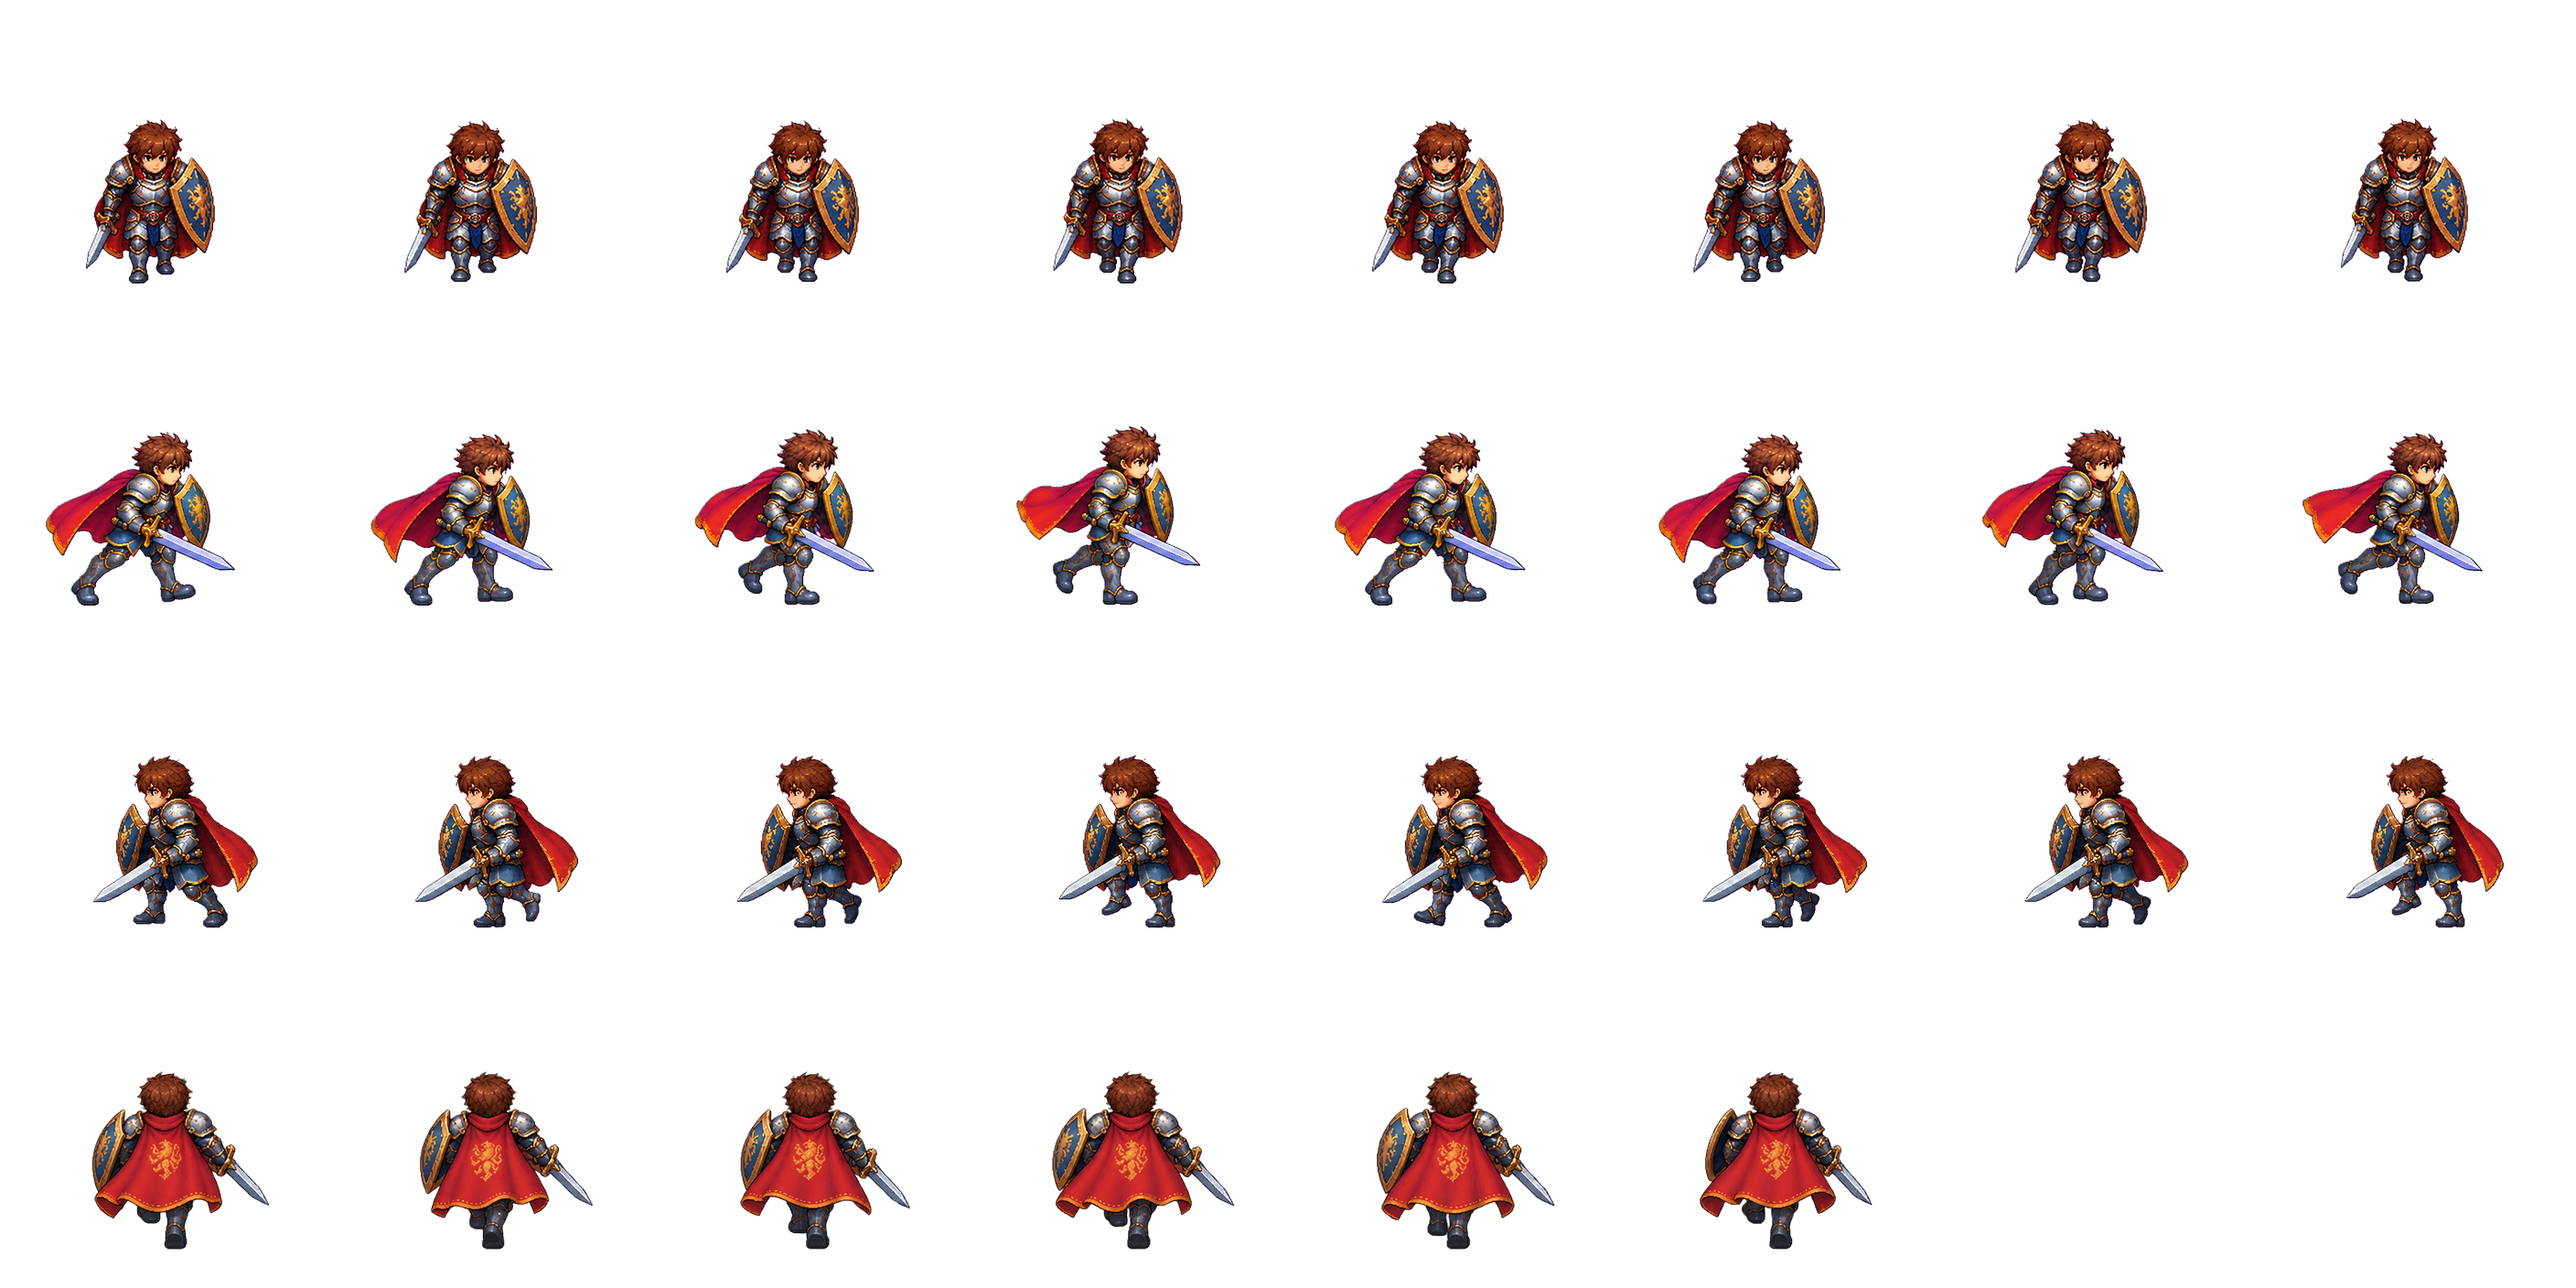
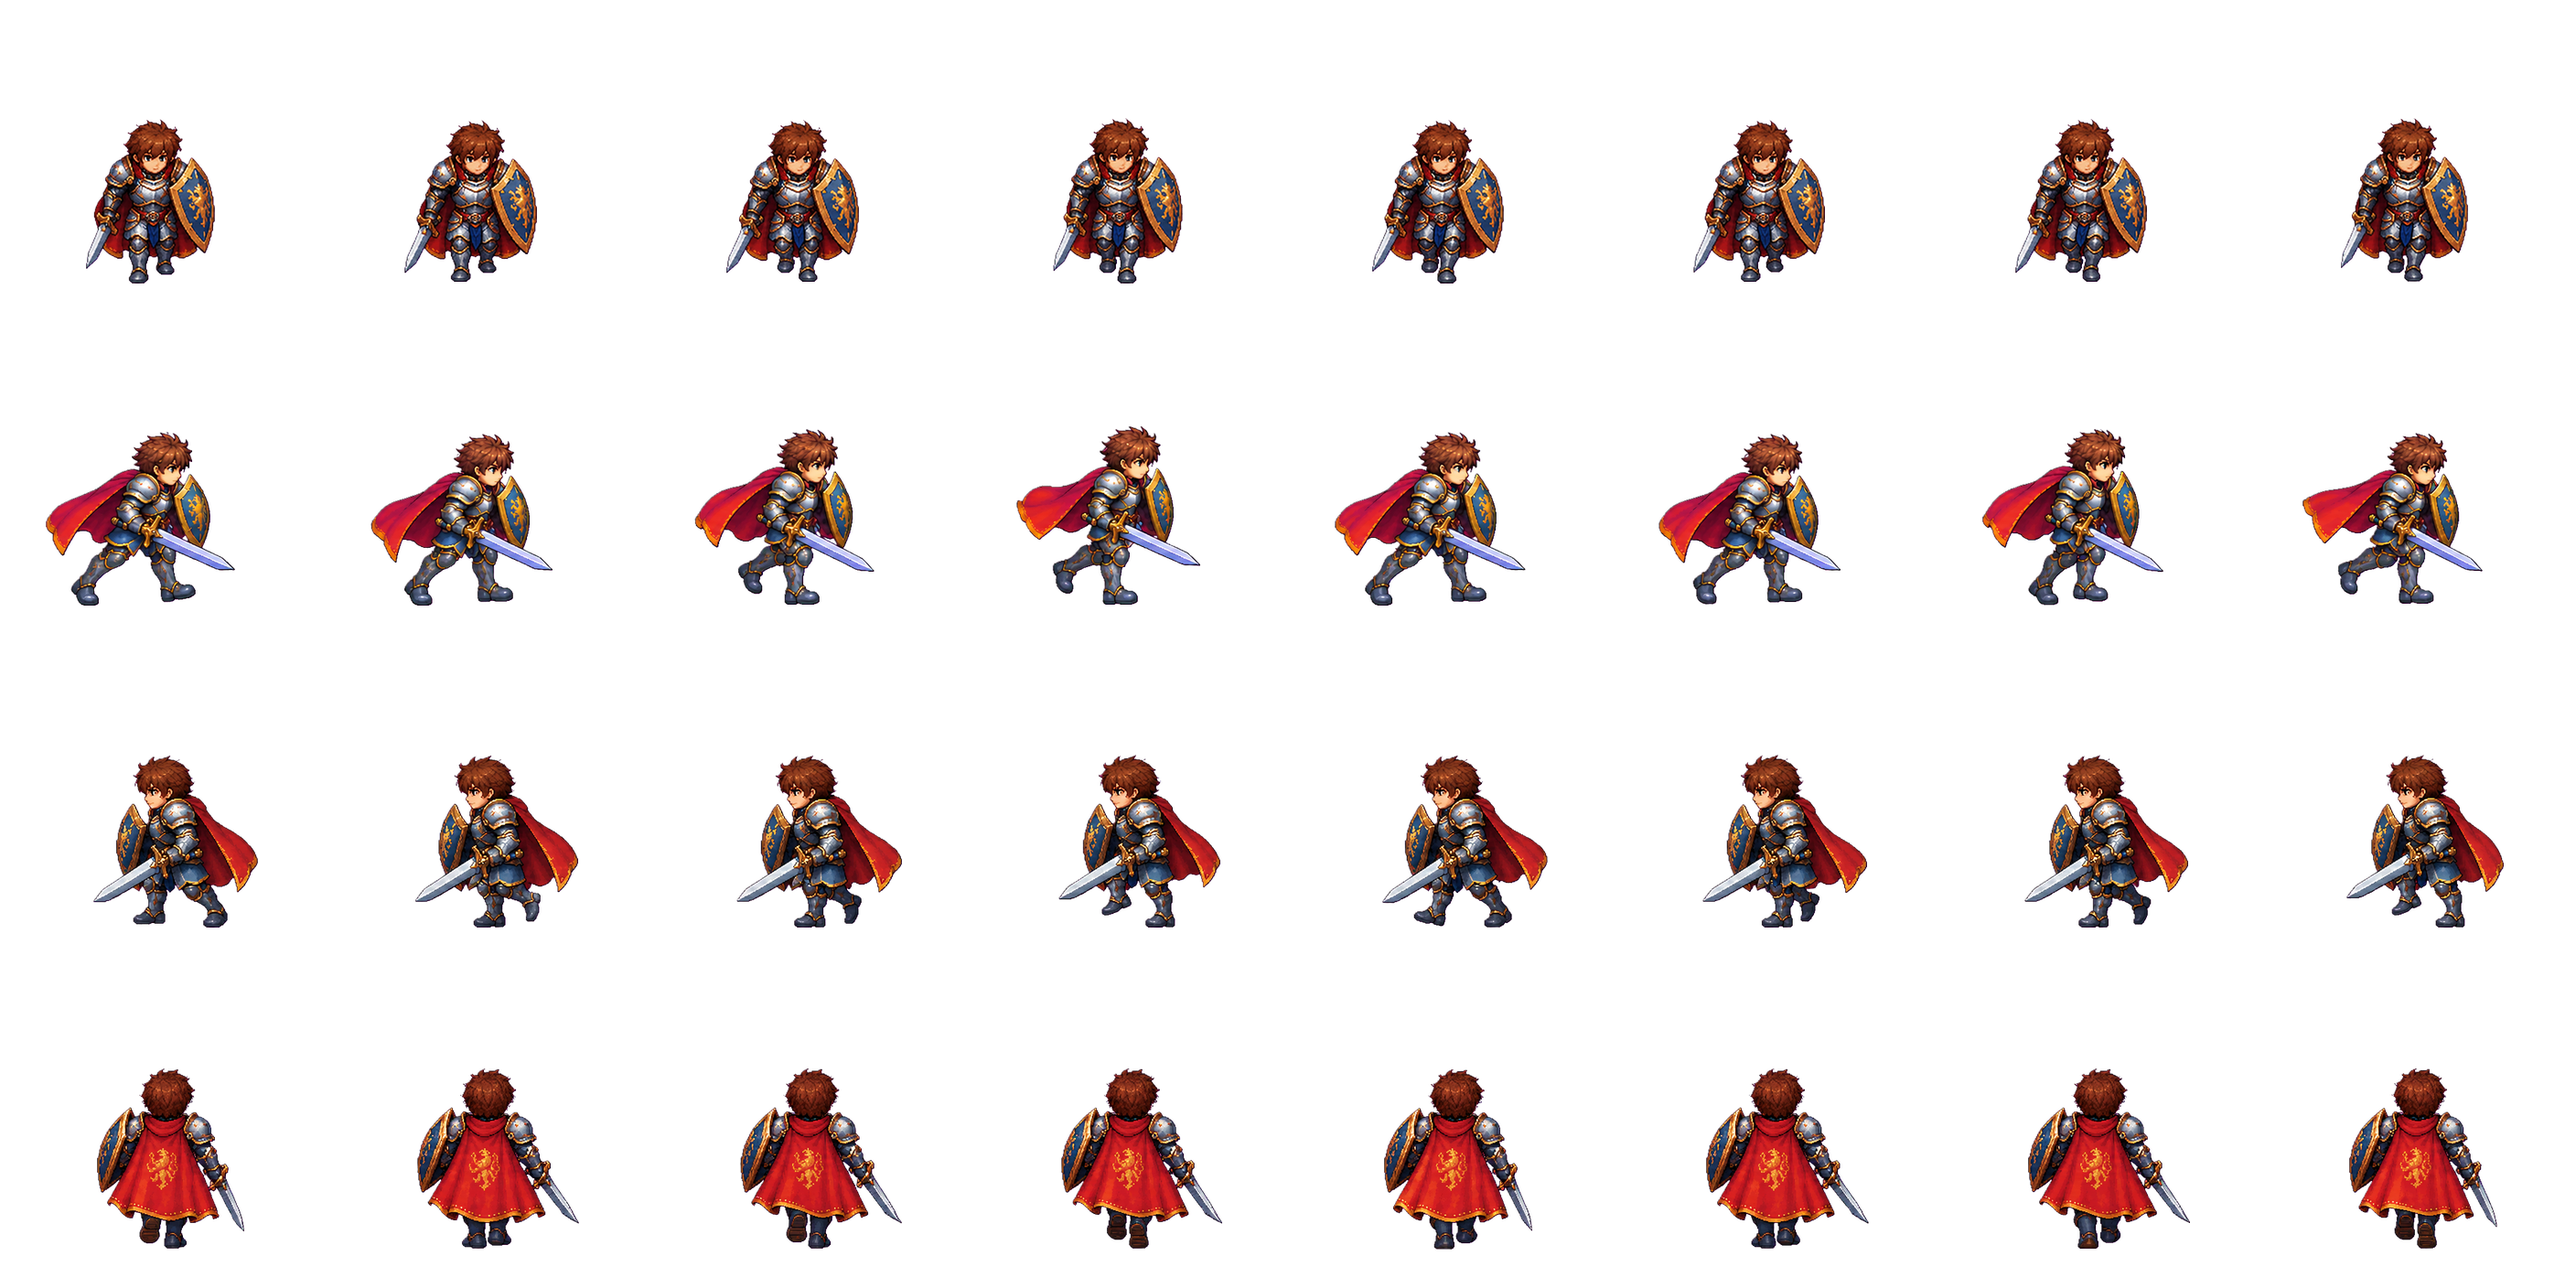
Warrior walk: new 8-frame up cycle (all 4 directions replaced)
Claude-Session: https://claude.ai/code/session_019q8CMrxghbNzj8w42KsHoP

diff --git a/src/game/Body.ts b/src/game/Body.ts
@@ -125,7 +125,7 @@ function sheetPose(cls: string, dir: Dir, q: PoseQuery): PoseFrame {
         return f;
       }
       if (q.state === 'walk') { // 8-frame cycles (down/up rows of the old 6-frame art until replaced)
-        const n = cls === 'warrior' && dir !== 'up' ? 8 : 6;
+        const n = cls === 'warrior' ? 8 : 6;
         const fps = (n === 8 ? 10 : 8) * Math.max(0.7, Math.min(1.2, q.speed / 188));
         return mv(cls, 'walk', dir, Math.floor((q.t * fps) / 1000) % n);
       }
